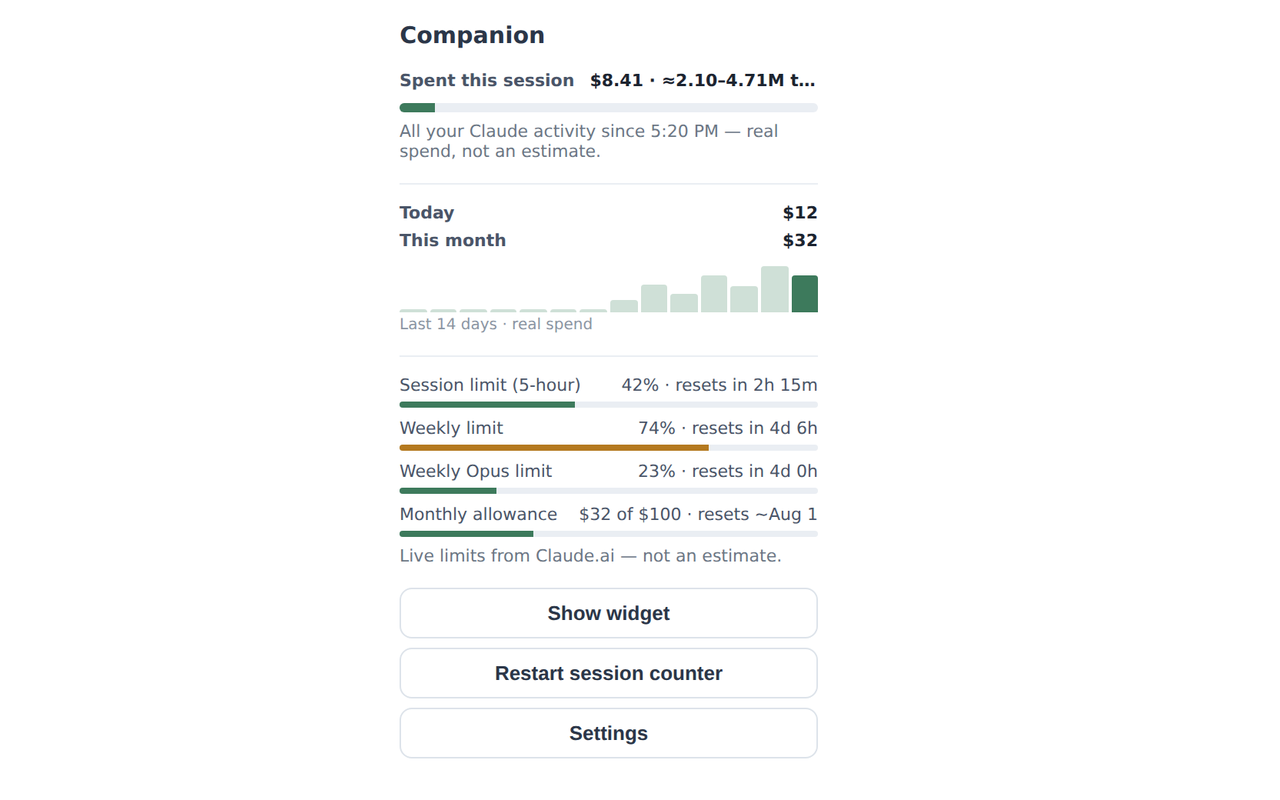
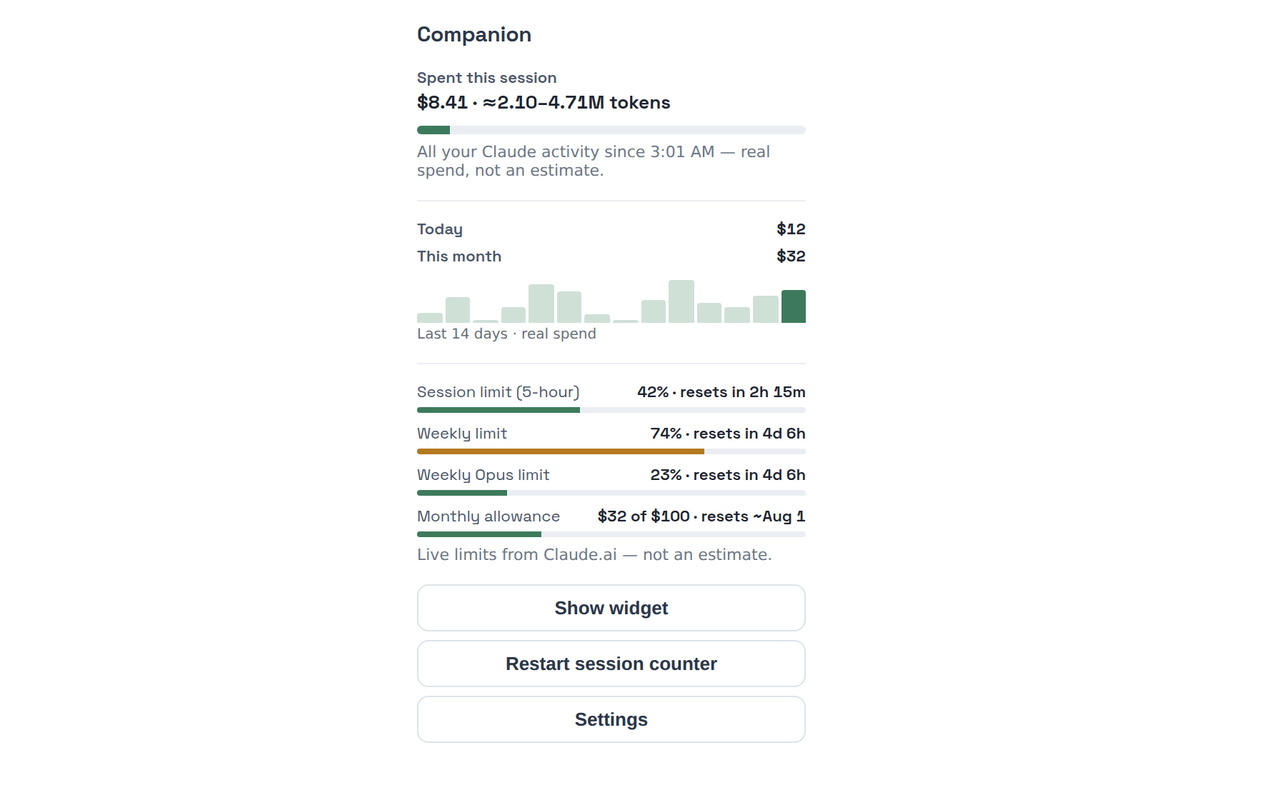
Refresh screenshots and docs for the widget-polish release
Widget screenshots are now real renders of the current design (actual
widget.css + markup in a shadow-DOM harness, composited into the
claude.ai context shots), popup screenshots re-captured live with
seeded data, settings re-captured with the new Widget metrics group.
Changelog, README, and store listing describe the per-metric toggles,
converter fix, typography, and accessibility work.

Claude-Session: https://claude.ai/code/session_015hyrw8A6adrGmaNWxRQj34

diff --git a/CHANGELOG.md b/CHANGELOG.md
@@ -7,6 +7,12 @@ All notable changes to Companion. The most recent release is at the top.
 - **Chrome Web Store release preparation:** removed the built-in self-update mechanism (updates now ship through the Chrome Web Store), dropped the now-unneeded `alarms` permission and GitHub/CDN host permissions and CSP entries — the extension now connects only to claude.ai.
 - Added store submission documents under `store/` and a packaging script `tools/package-webstore.sh`.
 - **Renamed to "Companion"** — the product no longer uses "Claude" in its name, avoiding any trademark concern; all user-facing copy updated.
+- **Per-metric visibility toggles.** Every meter is now individually hideable from Settings → Widget metrics: session spend, session limit (5-hour), weekly limit, weekly Opus limit, and monthly allowance — applied consistently across the widget, the popup, the toolbar badge, and desktop notifications (a hidden metric never resurfaces through a more intrusive channel). The old all-or-nothing "Show Claude's real limits" switch migrates automatically.
+- **Fixed the Caveman file converter**, which failed for every format: the offscreen document fetched the file's `data:` URL, which the extension CSP blocks. Bytes now decode directly (with a native fast path). Also: `.htm` files parse as HTML, sheet frontmatter becomes a real heading instead of YAML noise pasted into the chat, empty sheets error cleanly, and a hung sandbox can no longer stall conversions forever. Verified end-to-end in Chromium for DOCX/PPTX/XLSX/CSV/PDF/HTML.
+- **Firmer Caveman instruction** — now also blocks alternatives-enumeration, re-explaining covered ground, and emoji/decorative formatting.
+- **Typography refresh.** Bundled Space Grotesk (22 KB, OFL) carries titles, section labels, and metric values — with tabular numerals so numbers don't jiggle as they tick; body text stays on the system stack.
+- **Accessibility pass.** Progress bars announce human-readable values (aria-valuetext), the display-cycle button describes its current action, visible focus outlines everywhere in both themes, `prefers-reduced-motion` support, WCAG AA contrast fixes, and consistent polite live regions for status messages.
+- Removed the widget's model footer — the detected model still powers token estimates, it just no longer takes up a row.
 
 ### 0.9.1 (security)
 

diff --git a/README.md b/README.md
@@ -59,6 +59,7 @@ Companion reads the **same numbers Claude's own settings page uses** and pins th
 | **Claude's real limits** | Session (5-hour), weekly, Opus, and monthly-credit bars with reset countdowns, exactly as Claude reports them. |
 | **Before-the-wall alerts** | Toolbar badge + optional desktop nudge when any limit runs hot, plus "at this pace you'll hit your limit around 3:40 PM". |
 | **Caveman Mode** | Stretch your quota when it's running low — ultra-brief replies, local prompt-trimming, and file→Markdown. |
+| **Only what you want** | Every meter is individually toggleable — session spend, each limit, monthly allowance, Caveman Mode — so the widget shows exactly the metrics you care about. |
 | **Looks native** | Docks under the chat box, matches its width, and follows Claude's own light/dark theme. |
 | **Private by design** | Your prompts and replies are never stored or sent anywhere. Read-only. No telemetry. |
 

diff --git a/store/listing.md b/store/listing.md
@@ -41,6 +41,7 @@ WHAT YOU SEE
 ▪ Pace projections, like "at this pace you'll hit your limit around 3:40 PM," so you can plan ahead instead of getting cut off.
 ▪ Early warnings — a toolbar badge plus an optional desktop notification at 85% and 95% of any limit.
 ▪ Token counts alongside the dollar figures, for anyone who thinks in tokens too.
+▪ Only the meters you want — every metric is individually toggleable in Settings, so the widget shows exactly what matters to you (works for flat plans and enterprise usage-credit accounts alike).
 ▪ A native look that matches claude.ai's own light and dark theme.
 
 CAVEMAN MODE — stretch your quota when it's running low
